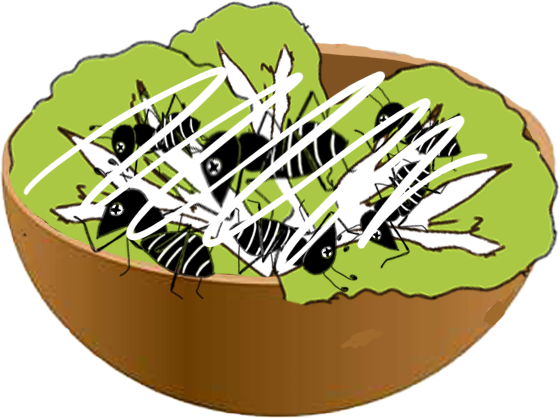
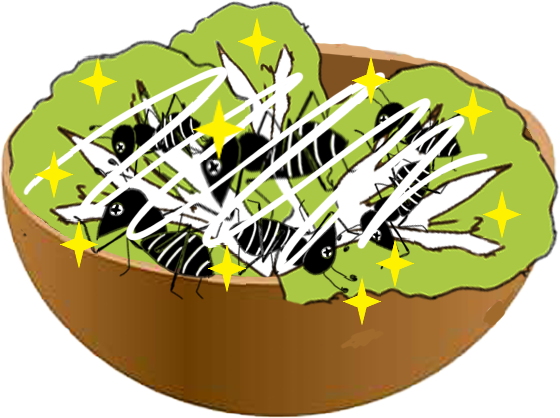
Cook Complete Score Logic
The logic of cooking completion level, the task of displaying images differently depending on the level of completion.

diff --git a/CS230_JunhyeongKim/CS230/Game/Cook.h b/CS230_JunhyeongKim/CS230/Game/Cook.h
@@ -19,9 +19,11 @@ public:
 	void Update(double dt);
     void Draw();
 	void Unload();
-	void DrawScore(std::vector<Recipe*>& recipeBook, RecipeName order);
+	void DrawScore();
+	void SetScore(std::vector<Recipe*>& recipeBook);
 	void DrawGage();
 	Math::vec2 WhereISMouse();
+	void GetOrder(RecipeName orderRecipe, std::vector<Recipe*>& recipeBook);
 
 	double Width_raito = 0;
 	double Height_raito = 0;
@@ -125,7 +127,6 @@ private:
 	void SlotDraw();
 	void SetStoveOn();
 	void SpotToPlate();
-	void DrawTempSoup();
 	int ReturnScore() { return score; }
 	void SetIngredient();
 
@@ -149,4 +150,7 @@ private:
 	int plateDrawIndex = 0;
 	bool checkDrawSoup = false;
 	bool canCook = true;
+
+	RecipeName order;
+	int orderSize = 0;
 };

diff --git a/CS230_JunhyeongKim/CS230/Game/Slot.cpp b/CS230_JunhyeongKim/CS230/Game/Slot.cpp
@@ -98,9 +98,20 @@ void Slot::DrawIngredient(const std::vector<std::vector<CS230::Texture*>>& textu
 	}
 }
 
-void Slot::Update(double dt)
+void Slot::DrawSlotRect()
 {
-	
+	for (int i = 0; i < putSize; ++i)
+	{
+		if (vector.size() <= i)
+		{
+			doodle::draw_rectangle(slotPos[i].x, slotPos[i].y, 50, 50);
+		}
+	}
+}
+
+void Slot::Update(double dt, int size)
+{
+	putSize = size;
 }
 
 void Slot::Unload()
@@ -114,7 +125,7 @@ void Slot::Unload()
 
 bool Slot::PutIngredient(Ingredient* ingredient)
 {
-	if (vector.size() <= 16)
+	if (vector.size() < putSize)
 	{
 		vector.push_back(ingredient);
 		return true;

diff --git a/CS230_JunhyeongKim/CS230/Game/Slot.h b/CS230_JunhyeongKim/CS230/Game/Slot.h
@@ -12,12 +12,13 @@ public:
 	virtual void Load() = 0;
 	virtual void Draw(int index) = 0;
 	void DrawIngredient(const std::vector<std::vector<CS230::Texture*>>& texture);
-	void Update(double dt);
+	void Update(double dt, int size);
 	void Unload();
 	virtual void ButtonDraw() = 0;
 	void ChangePos(Math::vec2 pos) { position = pos; }
 	bool PutIngredient(Ingredient* ingredient);
 	std::vector<Ingredient*>& GetIngredientVec();
+	void DrawSlotRect();
 
 protected:
 	std::vector<CS230::Texture*> texture;
@@ -26,7 +27,7 @@ protected:
 	std::vector<Ingredient*> vector;
 
 private:
-
+	int putSize = 0;
 
 };
 

diff --git a/CS230_JunhyeongKim/CS230/Game/Recipe.h b/CS230_JunhyeongKim/CS230/Game/Recipe.h
@@ -13,6 +13,7 @@ public:
 	int CheckComplete(std::vector<Ingredient*>& plating);
 	void Update();
 	void Unload();
+	int GetTotalNum() { return totalNum; }
 protected:
 	CS230::Texture* texture;
 	Math::vec2 texturePos;
@@ -39,8 +40,8 @@ protected:
 	MermaidScales* mermaidScales;
 	MermaidScales* boiledMermaidScales;
 	
-	int score = 0;
-	int totalNum = 0;
+	double score = 100;
+	double totalNum = 0;
 };
 
 class LemonSalad : public Recipe

diff --git a/CS230_JunhyeongKim/CS230/Game/Kitchen.cpp b/CS230_JunhyeongKim/CS230/Game/Kitchen.cpp
@@ -48,6 +48,7 @@ void Kitchen::Update(double dt)
 		}
 		
 	}
+	cook.GetOrder(RecipeName::AntSalad, recipeBook.GetRecipeBook());
 
 }
 void Kitchen::Draw()
@@ -60,7 +61,7 @@ void Kitchen::Draw()
 		sideBowl[i].Draw();
 	}
 	cook.Draw();
-	cook.DrawScore(recipeBook.GetRecipeBook(), RecipeName::LemonSalad);
+	cook.SetScore(recipeBook.GetRecipeBook());
 	recipeBook.Draw();
 	go_counter.draw();
 }

diff --git a/CS230_JunhyeongKim/CS230/Game/Ingredient.cpp b/CS230_JunhyeongKim/CS230/Game/Ingredient.cpp
@@ -5,6 +5,14 @@ Ingredient::Ingredient(Math::vec2 pos)
 	:position(pos)
 {}
 
+void Ingredient::Cut()
+{
+	if (cutNum > 1)
+	{
+		--cutNum;
+	}
+}
+
 void Ingredient::SlotDraw(Math::vec2 pos, const std::vector<std::vector<CS230::Texture*>>& texture)
 {
 	double slotScale = 0.7;
